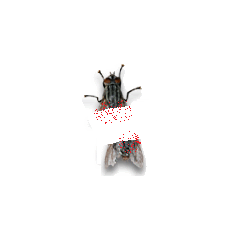
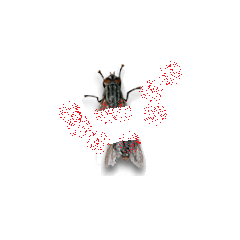
.

diff --git a/week2/style.css b/week2/style.css
@@ -47,13 +47,15 @@ li {
     position: absolute;
     top: 70px;
     left: 42vw;
-    transition: 1s;
+    transition: 0s;
+    z-index: -1;
  }
 
 header:hover:before {
     background: url(./images/deadfly.png) center center no-repeat;
     background-size: 100%;
-    transition-delay: 30ms;
+    transition:  0s;
+    transition-delay: 100ms;
  }   
 
  h1 {
@@ -184,8 +186,11 @@ li::-webkit-scrollbar-thumb:hover {
 
 /* ==============================  MEDIUM DISPLAY ==> */
 
-@media (max-width:961px) {
+@media (max-width:965px) {
 
+header::before {
+    left: 32vw;
+}
 /* ==== FLOATS ====  */
 
 #grid-floats li:nth-child(2) {
@@ -211,6 +216,10 @@ li::-webkit-scrollbar-thumb:hover {
 /* ==============================  NARROW DSPLAY ==> */
 
 @media (max-width:550px)  {
+
+    header::before {
+        left: 25vw;
+    }
 
 /* ==== FLOATS ====  */
    
